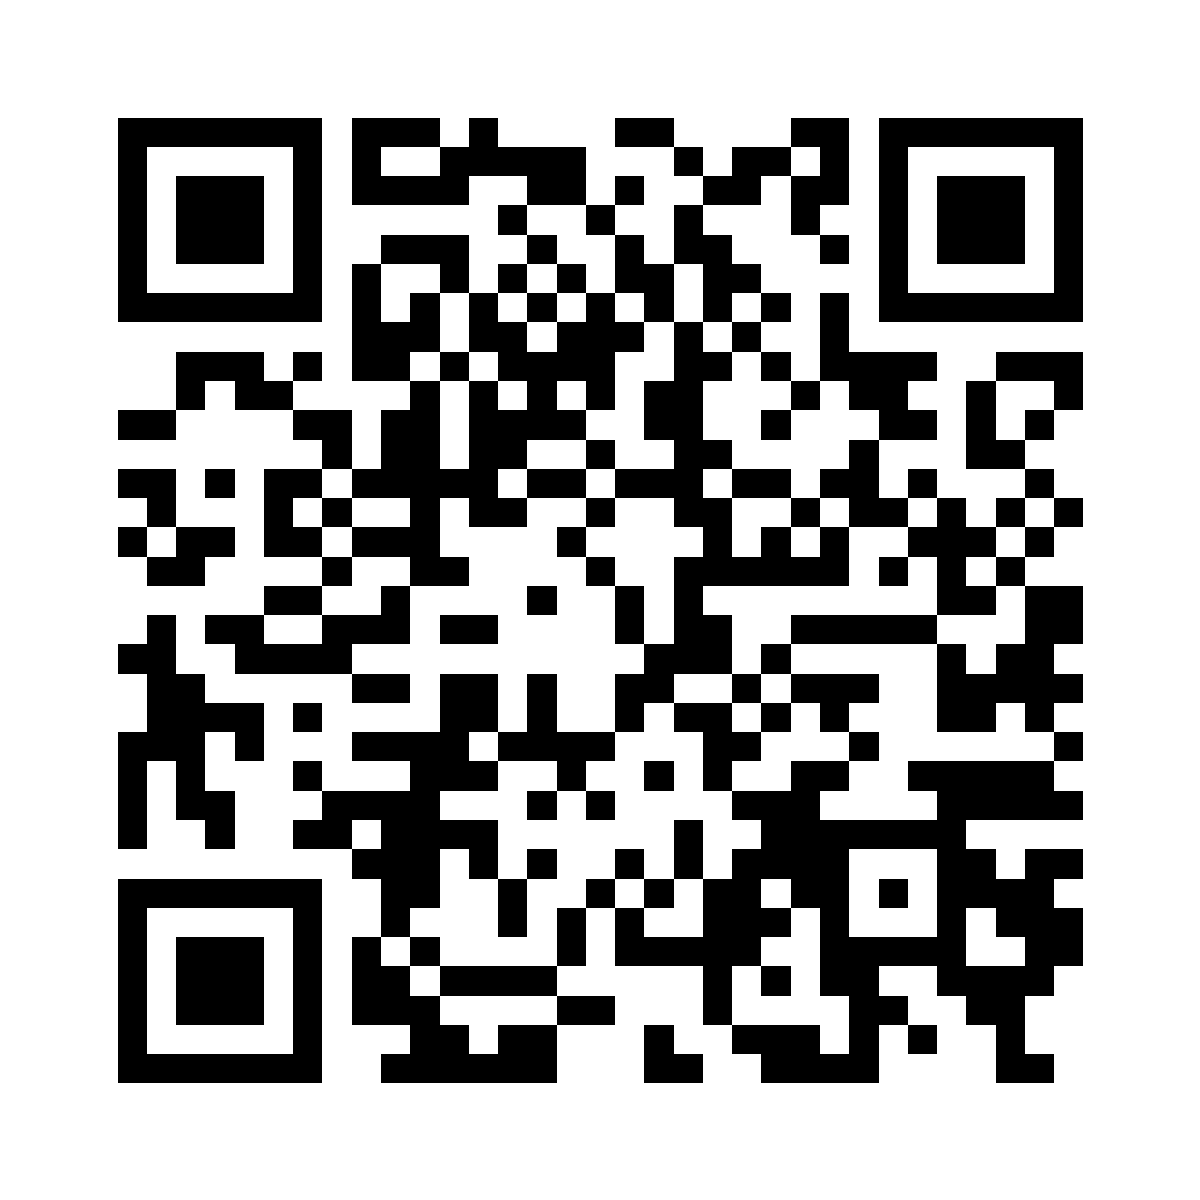
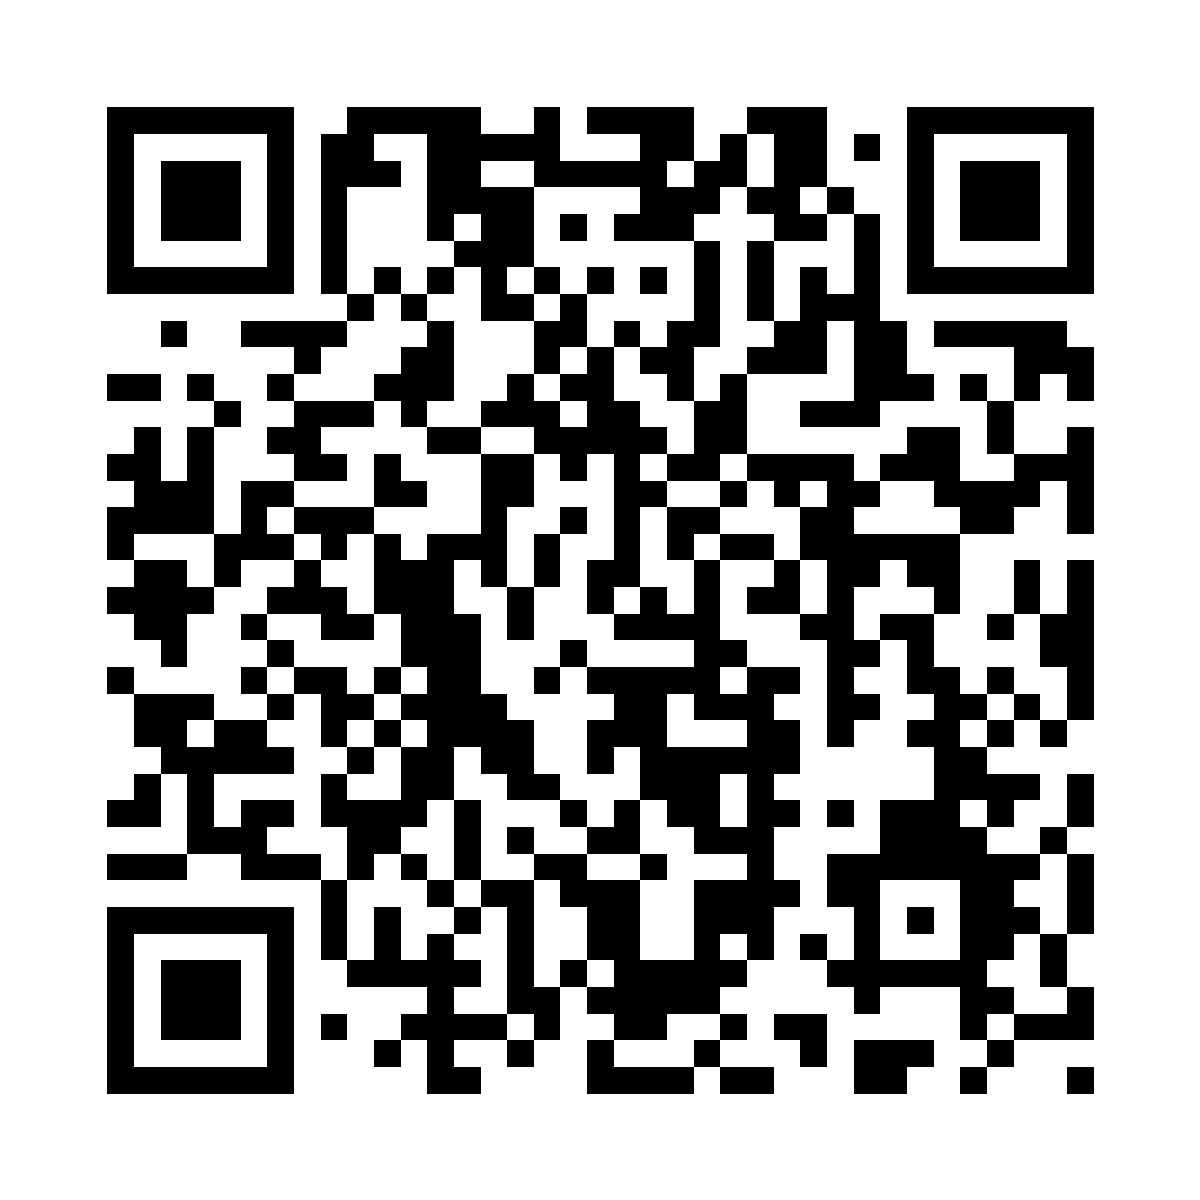
Use readable Edu-thon short links (#3)

diff --git a/README.md b/README.md
@@ -4,7 +4,7 @@ Public address wrappers for the 2026 Edu-thon application site.
 
 - Participant: <https://edu-thon.github.io/bnuedu/>
 - Administrator: <https://edu-thon.github.io/bnuedu/admin/>
-- Participant short link: <https://tinyurl.com/2alrkba8>
-- Administrator short link: <https://tinyurl.com/285hcws5>
+- Participant short link: <https://tinyurl.com/eduthon26-apply>
+- Administrator short link: <https://tinyurl.com/eduthon26-admin>
 
 Application records and administrator credentials are not stored in this repository.
